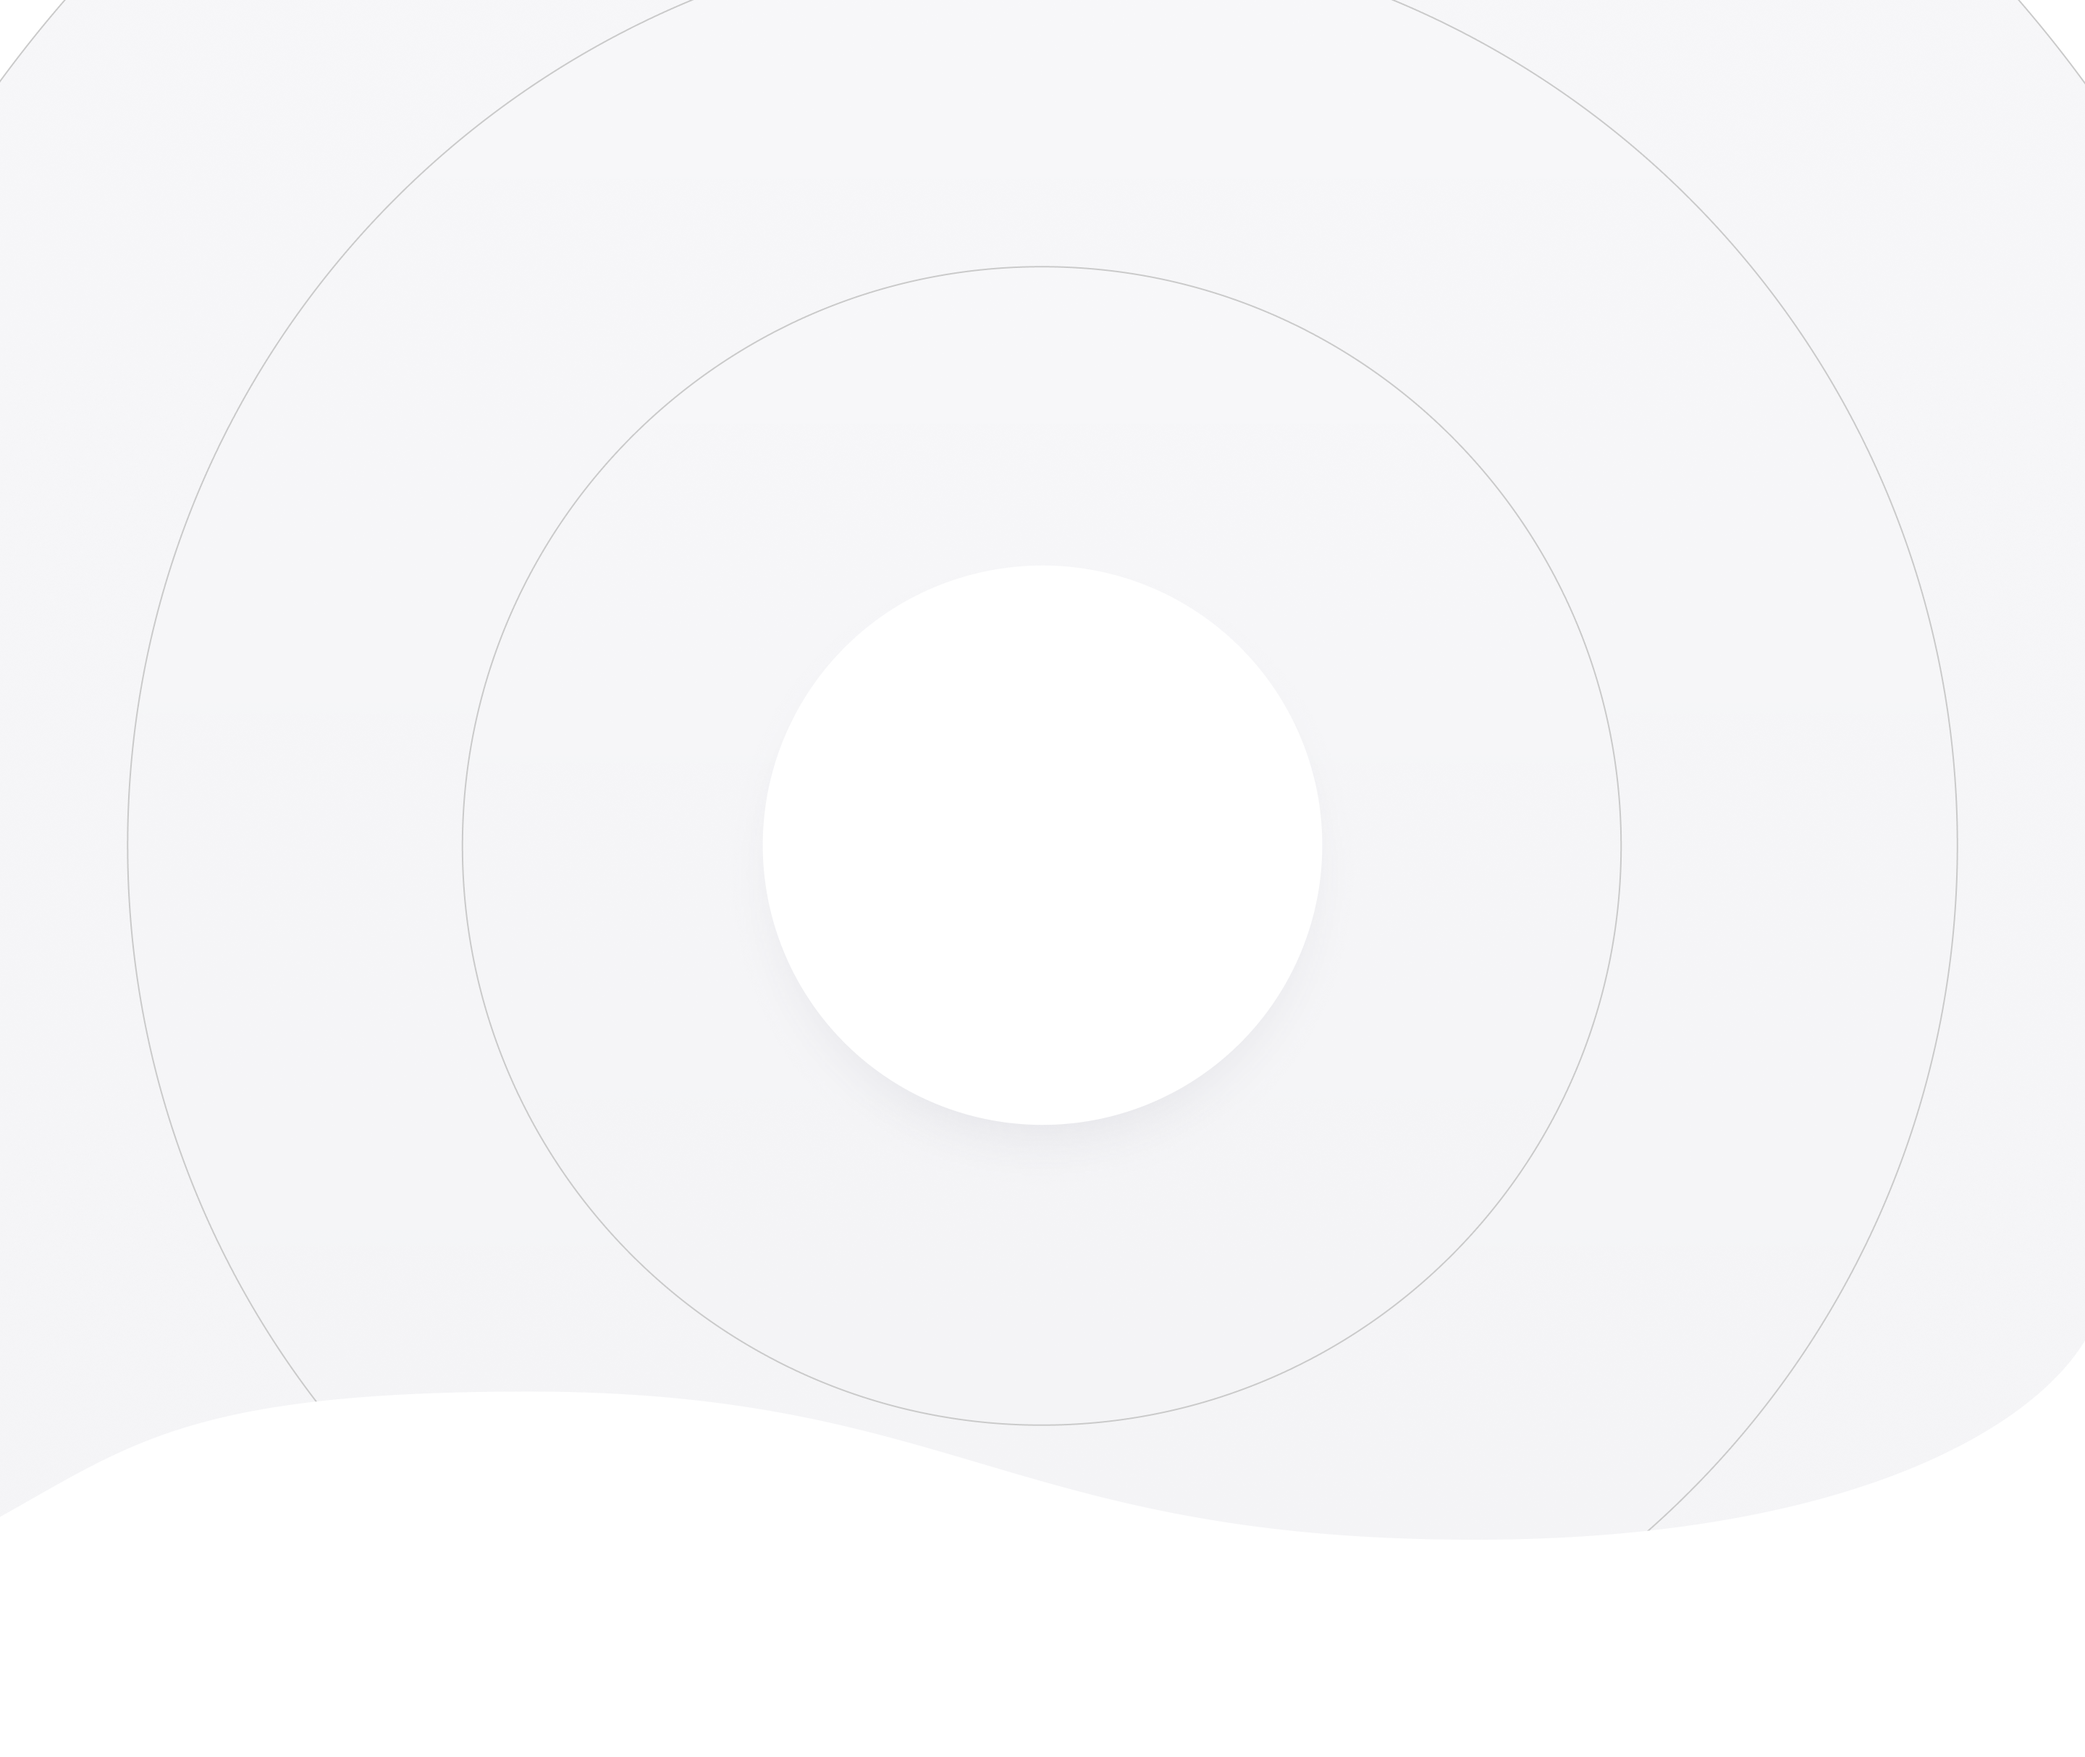
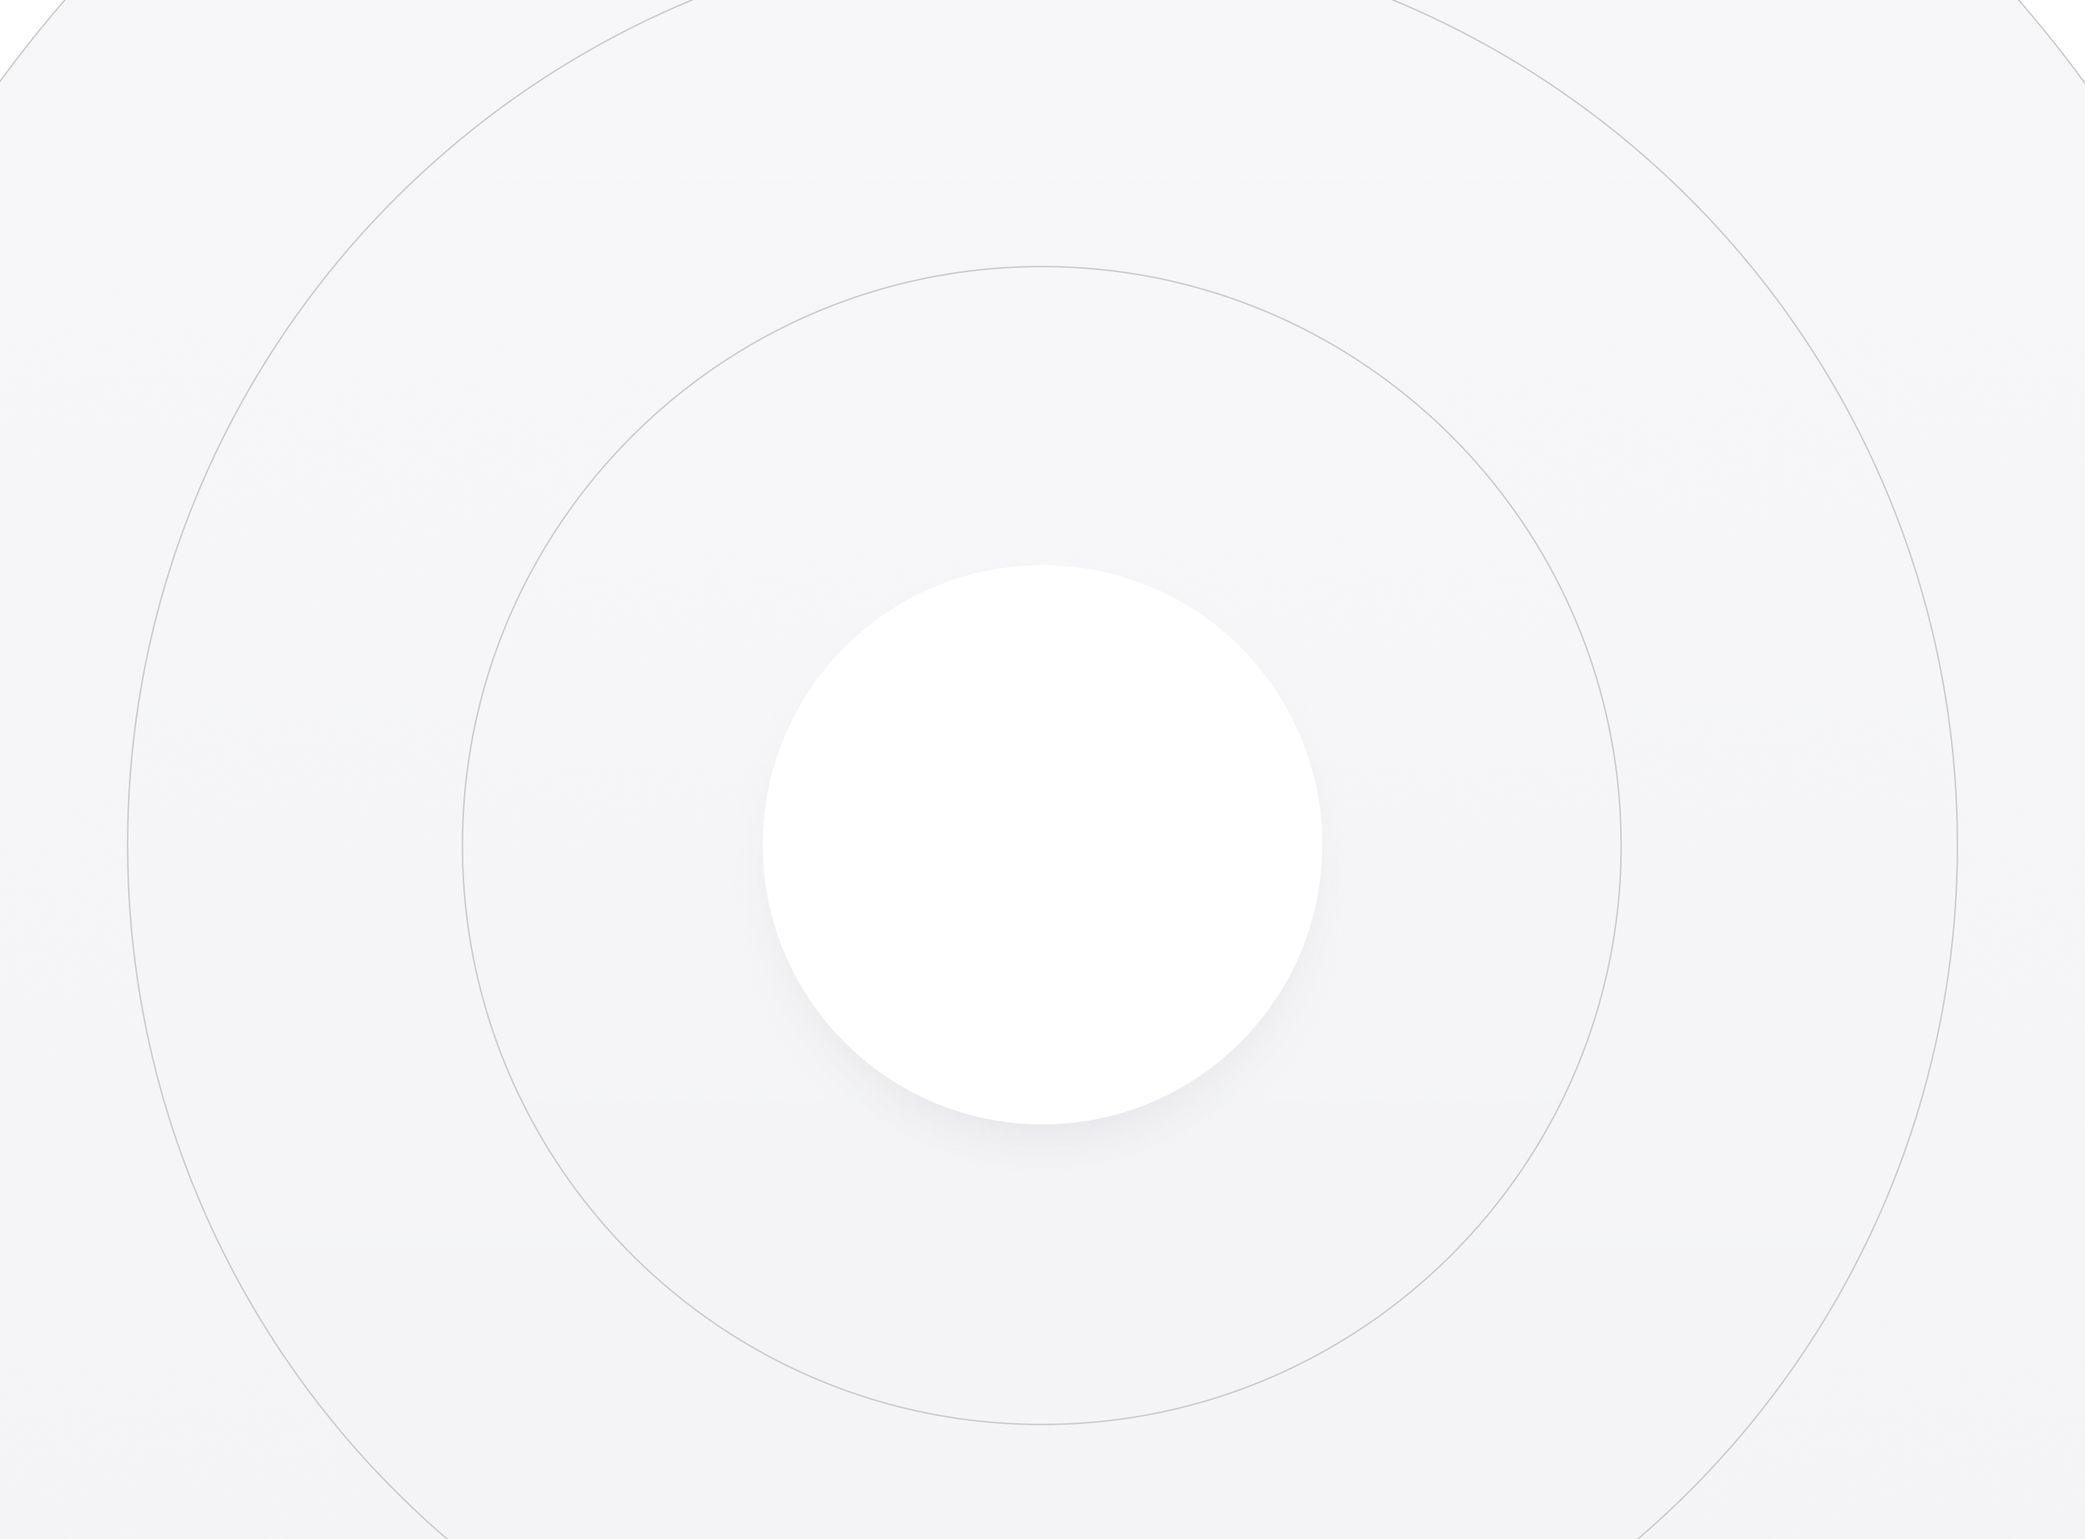
mask

diff --git a/src/components/landing_page/cta.tsx b/src/components/landing_page/cta.tsx
@@ -32,51 +32,67 @@ const MessageBubble: React.FC<{ avatarScr: string; text: string; isLeft?: boolea
 
 const Cta: React.FC = () => {
   return (
-    <div className="relative h-800px w-full bg-cta bg-cover bg-top bg-no-repeat">
-      {/* Info: (20250730 - Julian) Main Title */}
-      <div className="mx-auto mt-54px flex w-2/3 flex-col text-9xl font-bold">
-        <h2 className="text-left text-grey-600">Redefine</h2>
-        <h2 className="text-center text-brand-blud-500">your</h2>
-        <h2 className="text-right text-grey-600">identity</h2>
+    <div
+      className="relative w-full"
+      // Info: (20250805 - Julian) 波浪狀背景
+      style={{
+        maskImage: 'url(/elements/KV.png)',
+        maskPosition: 'bottom 30px right 0',
+        maskSize: 'cover',
+        maskRepeat: 'no-repeat',
+      }}
+    >
+      {/* Info: (20250805 - Julian) Background Image */}
+      <div className="z-0">
+        <Image src="/elements/cta_bg.png" width={1920} height={1080} alt="cta-bg" />
       </div>
 
-      {/* Info: (20250730 - Julian) Subtitle */}
-      <div className="absolute bottom-20 right-40 flex w-500px flex-col items-start gap-40px">
-        <p className="text-lg font-bold text-text-secondary">
-          CAFECA is a decentralized identity platform using blockchain and zero-knowledge proofs to
-          enable secure, private, and portable self-sovereign identity (SSI).
-        </p>
-        {/* ToDo: (20250731 - Julian) Style */}
-        <Link href="/">
-          <Button type="button" variant="primary" className="gap-8px">
-            Go to CAFECA <FaChevronRight size={20} />
-          </Button>
-        </Link>
-      </div>
+      <div className="absolute top-0 z-10 h-800px w-full">
+        {/* Info: (20250730 - Julian) Main Title */}
+        <div className="mx-auto mt-8 flex w-2/3 flex-col text-9xl font-bold">
+          <h2 className="text-left text-grey-600">Redefine</h2>
+          <h2 className="text-center text-brand-blud-500">your</h2>
+          <h2 className="text-right text-grey-600">identity</h2>
+        </div>
 
-      {/* Info: (20250730 - Julian) Holding a phone Image */}
-      <div className="absolute left-1/5 top-1/4">
-        <Image
-          src="/elements/hand_holding_phone.png"
-          width={500}
-          height={700}
-          alt="hand_holding_phone"
-        />
-      </div>
+        {/* Info: (20250730 - Julian) Subtitle */}
+        <div className="absolute bottom-20 right-40 flex w-500px flex-col items-start gap-40px">
+          <p className="text-lg font-bold text-text-secondary">
+            CAFECA is a decentralized identity platform using blockchain and zero-knowledge proofs
+            to enable secure, private, and portable self-sovereign identity (SSI).
+          </p>
+          {/* ToDo: (20250731 - Julian) Style */}
+          <Link href="/">
+            <Button type="button" variant="primary" className="gap-8px">
+              Go to CAFECA <FaChevronRight size={20} />
+            </Button>
+          </Link>
+        </div>
 
-      {/* Info: (20250801 - Julian) Message Bubbles */}
-      <div className="absolute right-64px top-64px">
-        <MessageBubble
-          avatarScr="/fake_avatar/avatar_1.png"
-          text="Wait... I didn’t even need a password!"
-          isLeft
-        />
-      </div>
-      <div className="absolute left-64px top-1/2">
-        <MessageBubble
-          avatarScr="/fake_avatar/avatar_2.png"
-          text="Feels way safer than usual logins"
-        />
+        {/* Info: (20250730 - Julian) Holding a phone Image */}
+        <div className="absolute -bottom-8 left-1/5">
+          <Image
+            src="/elements/hand_holding_phone.png"
+            width={500}
+            height={700}
+            alt="hand_holding_phone"
+          />
+        </div>
+
+        {/* Info: (20250801 - Julian) Message Bubbles */}
+        <div className="absolute right-64px top-64px">
+          <MessageBubble
+            avatarScr="/fake_avatar/avatar_1.png"
+            text="Wait... I didn’t even need a password!"
+            isLeft
+          />
+        </div>
+        <div className="absolute left-64px top-64">
+          <MessageBubble
+            avatarScr="/fake_avatar/avatar_2.png"
+            text="Feels way safer than usual logins"
+          />
+        </div>
       </div>
     </div>
   );

diff --git a/src/components/common/navbar.tsx b/src/components/common/navbar.tsx
@@ -3,7 +3,7 @@ import React from 'react';
 // ToDo: (20250731 - Julian) Navbar Component
 const Navbar: React.FC = () => {
   return (
-    <nav className="flex h-100px w-full items-center justify-center bg-black text-white">
+    <nav className="z-50 flex h-100px w-full items-center justify-center bg-black text-white">
       Navbar
     </nav>
   );

diff --git a/src/app/landing/page.tsx b/src/app/landing/page.tsx
@@ -20,8 +20,6 @@ export default function LandingPage() {
 
         <Cta />
 
-        {/* ToDo: (20250801 - Julian) 這裡有個波浪狀的遮擋 */}
-
         <div className="flex flex-col items-center">
           <IntroCard
             imgSrc="/elements/identity.png"
